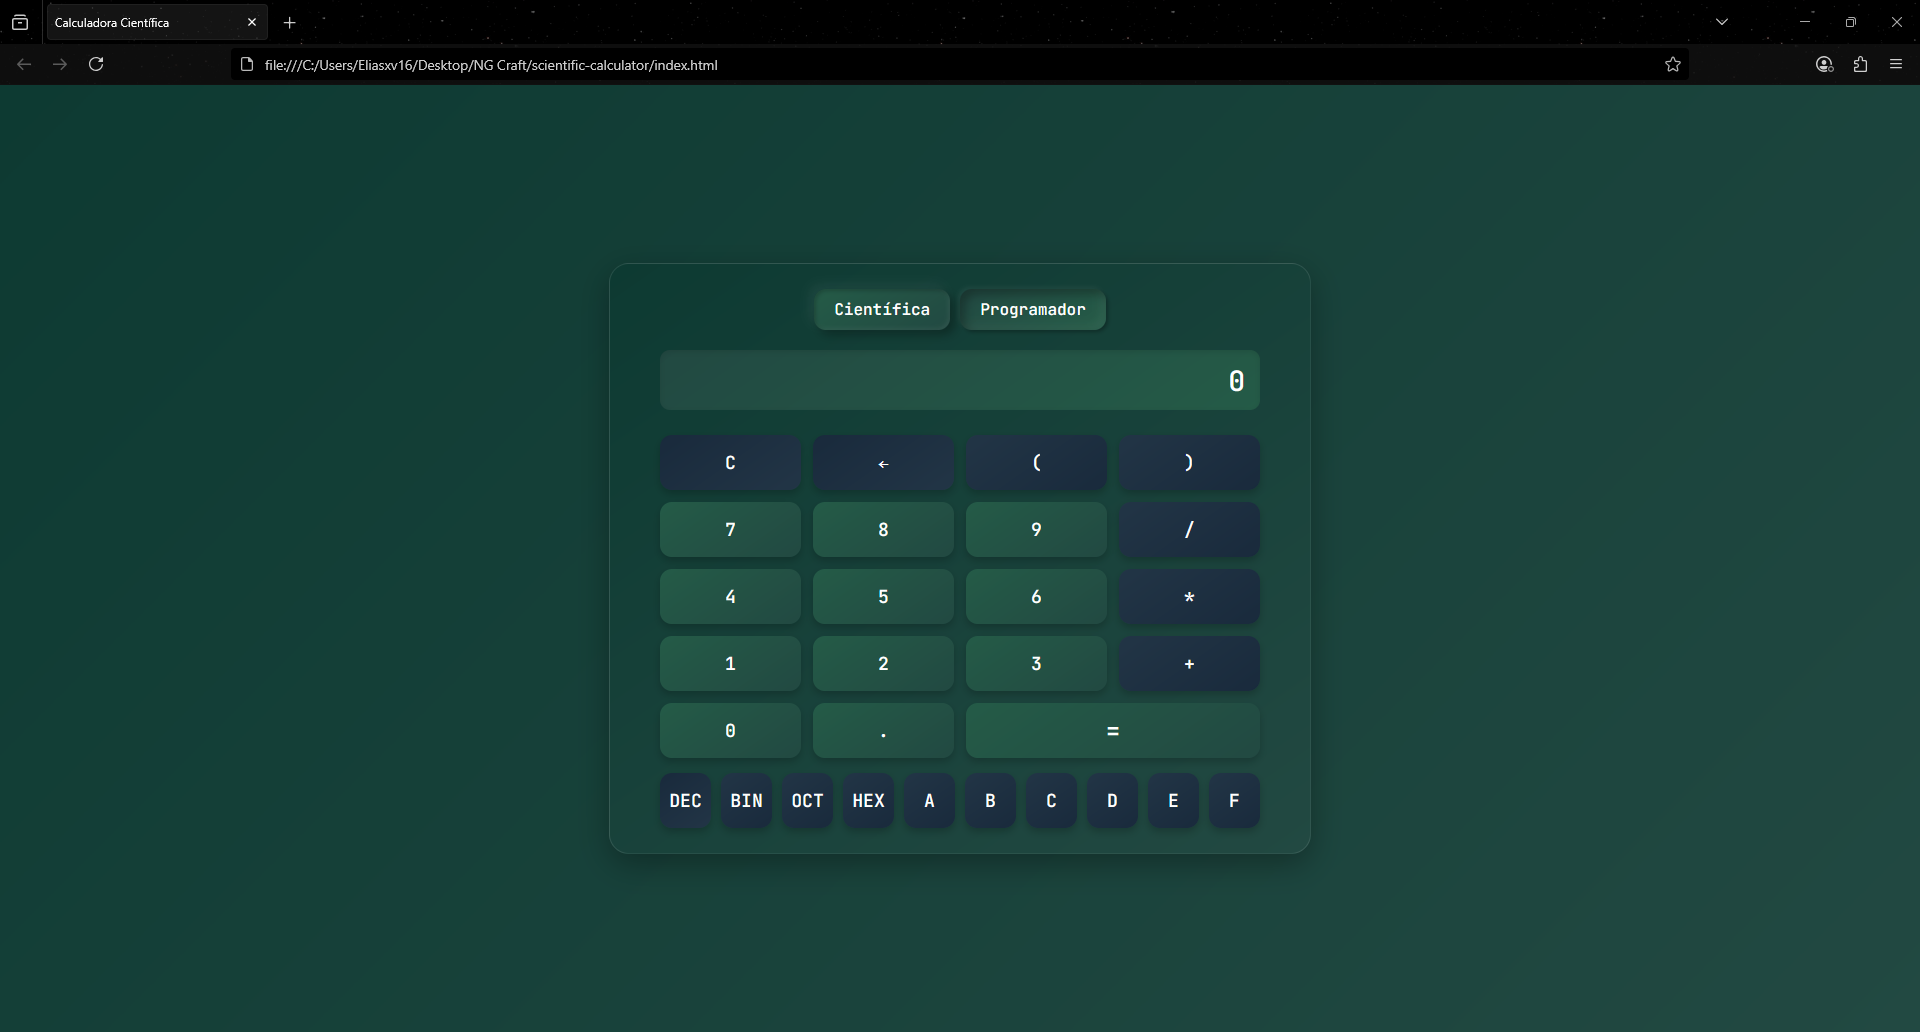
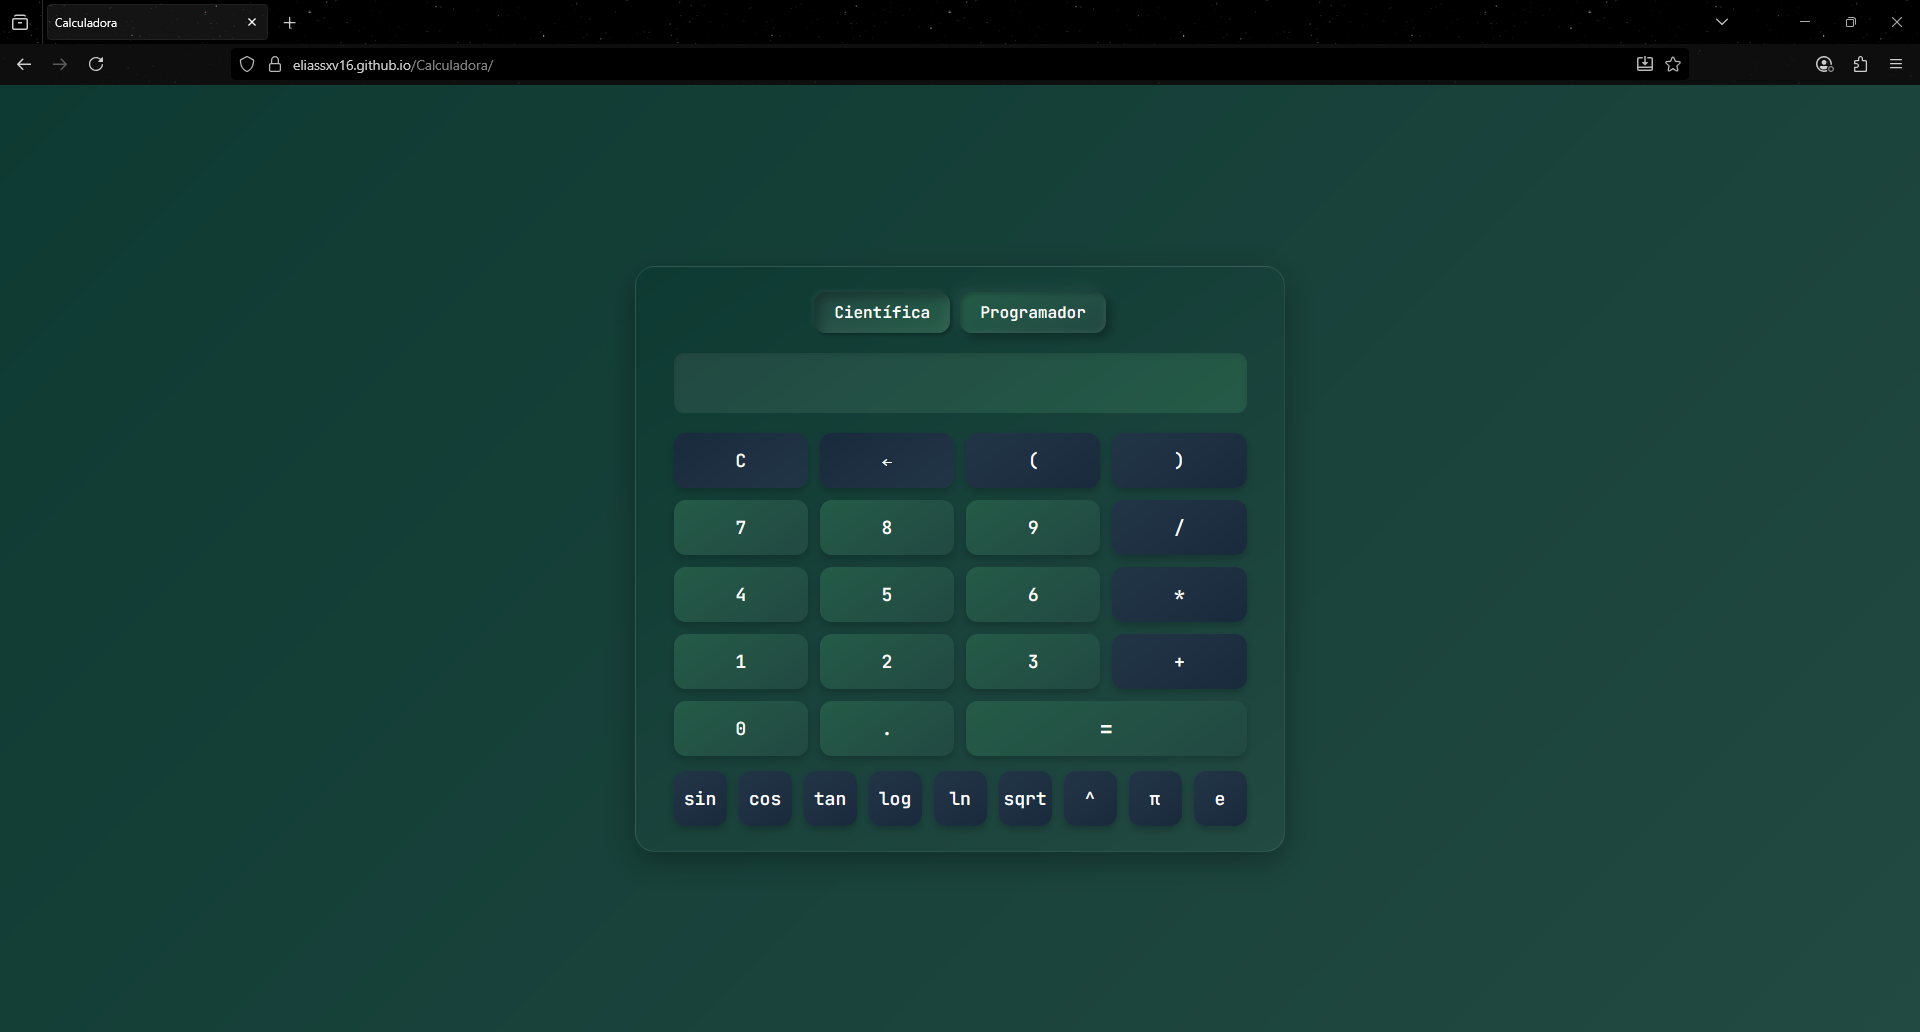
Update README and screenshot

diff --git a/README.md b/README.md
@@ -10,11 +10,11 @@ Calculadora científica en la web con soporte para modo programador. Es una apli
 Sirve para realizar operaciones matemáticas básicas y científicas de manera rápida, así como para convertir números entre diferentes sistemas de numeración (útil para programadores y desarrolladores). Incluye soporte para teclado y animaciones suaves al cambiar modos.
 
 ## Demo o Captura de Pantalla
-Actualmente, el proyecto se ejecuta localmente abriendo `index.html` en un navegador moderno. No está desplegado en la web, pero puedes desplegarlo fácilmente en plataformas gratuitas como Netlify, Vercel o GitHub Pages subiendo los archivos a un repositorio y configurando el build (no requiere compilación).
 
-**Link de Demo:** (No disponible; despliega en GitHub Pages para obtener uno, e.g., https://tu-usuario.github.io/scientific-calculator)
+**Link de Demo:** https://eliassxv16.github.io/Calculadora/
 
 **Imagen de Cómo se Ve:**
+
 ![Captura de Pantalla de la Calculadora](screenshot.png)
 
 
@@ -32,7 +32,7 @@ Actualmente, el proyecto se ejecuta localmente abriendo `index.html` en un naveg
 - No requiere Node.js, servidores o dependencias externas; es una app estática.
 
 ### Pasos para Clonar y Correr el Proyecto
-1. Descarga o clona la carpeta del proyecto (scientific-calculator) a tu PC.
+1. Descarga o clona la carpeta del proyecto (Calculadora) a tu PC.
 2. Abre la carpeta en un editor de código como VS Code (opcional).
 3. Abre el archivo `index.html` en tu navegador preferido (doble clic o arrastrar al navegador).
 4. ¡Listo! Usa los botones o el teclado para calcular. Cambia modos con los botones superiores.
